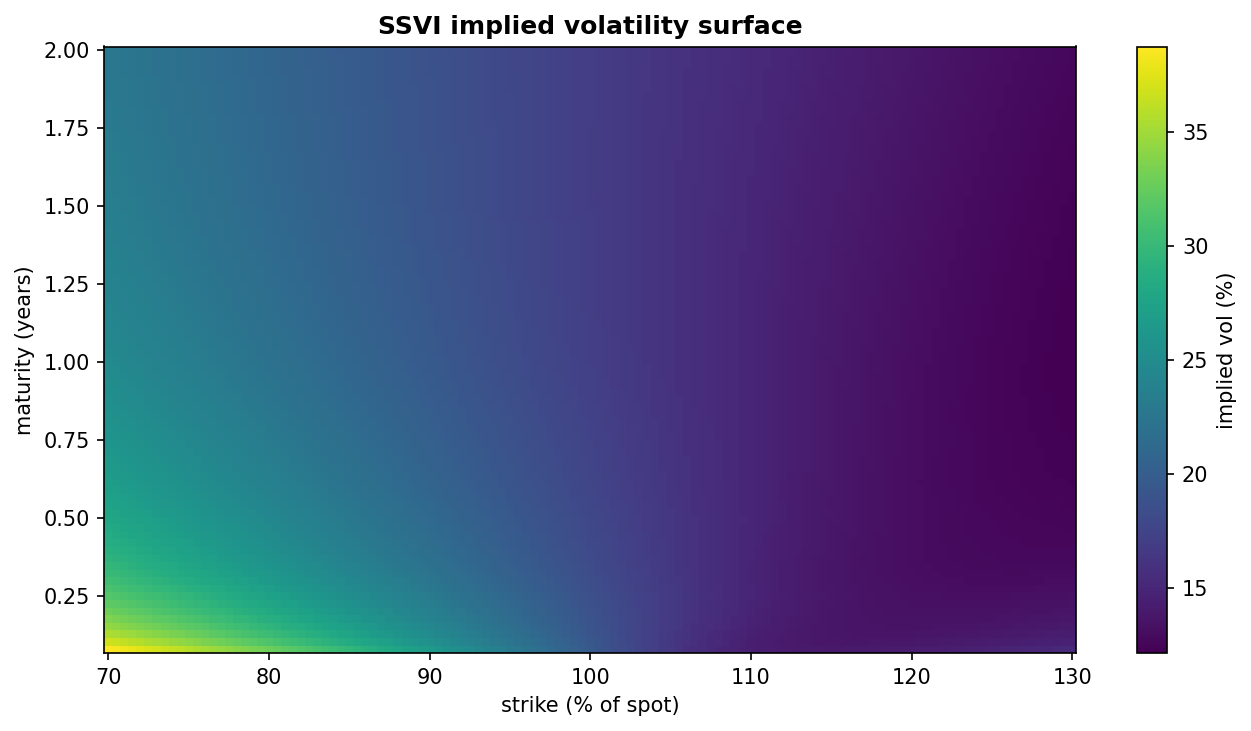
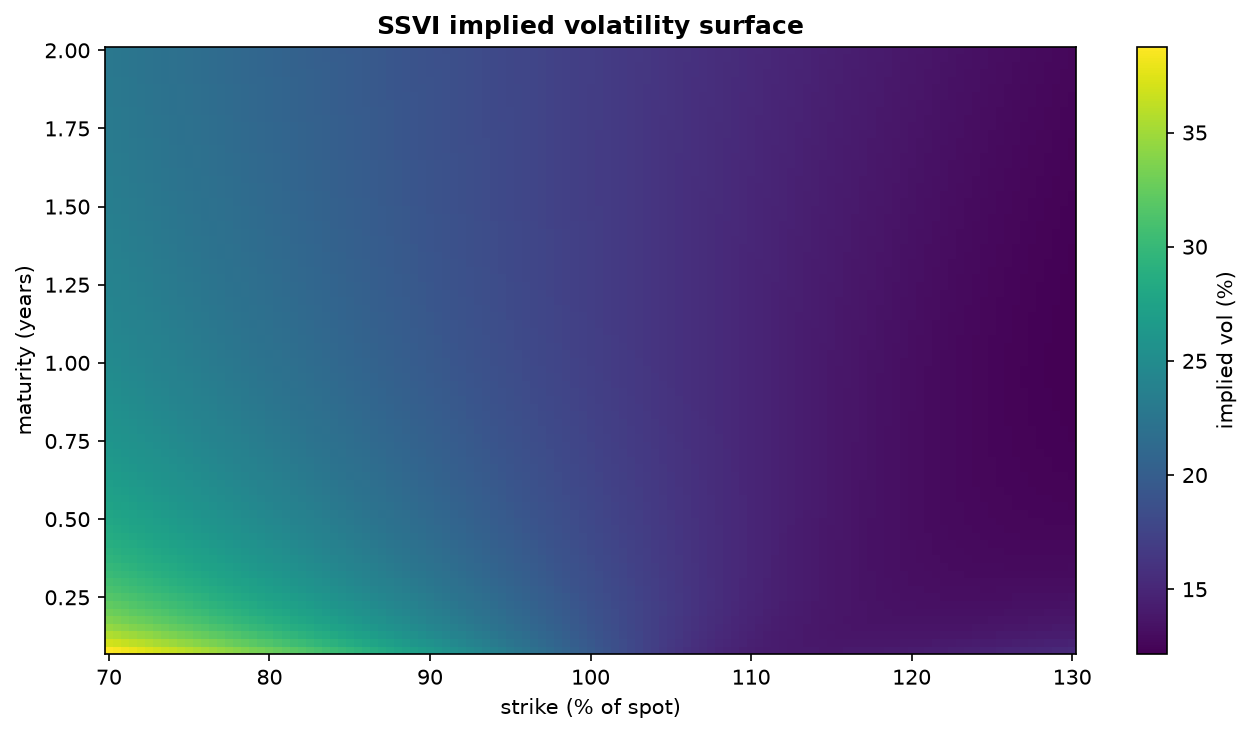
M2: interpolate SSVI theta(T) with a monotone cubic (PCHIP)
Piecewise-linear theta(T) made dtheta/dT, and so Dupire's dw/dT, jump at
every expiry: local vol stepped by ~6% across T = 0.5 on the test surface,
visible as horizontal bands in docs/local_vol.png. PCHIP keeps theta
non-decreasing (still calendar-arbitrage-free with gamma <= 1/2) and C1, so
the bands are gone. Theta at the expiries is unchanged, so fitted parameters
and the README validation numbers are identical.

diff --git a/src/volsurface/surface.py b/src/volsurface/surface.py
@@ -5,6 +5,7 @@ from __future__ import annotations
 from abc import ABC, abstractmethod
 
 import numpy as np
+from scipy.interpolate import PchipInterpolator
 
 from volsurface.ssvi import SSVIParams
 from volsurface.svi import SVIParams
@@ -111,16 +112,28 @@ class SVISliceSurface(VolSurface):
 
 
 class SSVISurface(VolSurface):
-    """SSVI surface with ATM total variance theta(T) linear between expiries."""
+    """SSVI surface with ATM total variance theta(T) a monotone cubic (PCHIP) in T.
+
+    PCHIP keeps theta non-decreasing, so the surface stays free of calendar
+    arbitrage, and makes it continuously differentiable, so dw/dT and the
+    Dupire local vol have no jumps at the expiries. Beyond the last expiry
+    theta continues along its end tangent.
+    """
 
     def __init__(self, curve: ForwardCurve, params: SSVIParams, expiries, thetas):
         super().__init__(curve)
         self.params = params
-        self._t = np.concatenate([[0.0], np.asarray(expiries, dtype=float)])
-        self._theta = np.concatenate([[0.0], np.maximum.accumulate(np.asarray(thetas, dtype=float))])
+        t = np.concatenate([[0.0], np.asarray(expiries, dtype=float)])
+        theta = np.concatenate([[0.0], np.maximum.accumulate(np.asarray(thetas, dtype=float))])
+        self._pchip = PchipInterpolator(t, theta, extrapolate=False)
+        self._t_end, self._theta_end = t[-1], theta[-1]
+        self._slope_end = float(self._pchip.derivative()(t[-1]))
 
     def theta(self, T):
-        return np.maximum(_interp_extrap(T, self._t, self._theta), 1e-12)
+        T = np.asarray(T, dtype=float)
+        inside = self._pchip(np.clip(T, 0.0, self._t_end))
+        after = self._theta_end + self._slope_end * (T - self._t_end)
+        return np.maximum(np.where(T > self._t_end, after, inside), 1e-12)
 
     def total_variance(self, k, T):
         k, T = np.broadcast_arrays(np.asarray(k, dtype=float), np.asarray(T, dtype=float))

diff --git a/tests/test_surface.py b/tests/test_surface.py
@@ -2,9 +2,10 @@ import numpy as np
 import pytest
 
 from volsurface import (
-    FlatVolSurface, ForwardCurve, SVIParams, SVISliceSurface, check_surface, fit_errors,
-    fit_surface, synthetic_chain,
+    FlatVolSurface, ForwardCurve, SSVIParams, SSVISurface, SVIParams, SVISliceSurface, check_surface,
+    fit_errors, fit_surface, synthetic_chain,
 )
+from volsurface.synthetic import default_atm_vol
 
 CURVE = ForwardCurve(100.0, [0.5, 1.0, 2.0], [101.0, 102.0, 104.0], [0.98, 0.96, 0.92])
 
@@ -20,6 +21,17 @@ def test_flat_surface_local_vol_equals_implied_vol():
     K, T = np.meshgrid(np.linspace(70, 140, 15), np.linspace(0.2, 1.8, 9))
     np.testing.assert_allclose(surf.implied_vol(K, T), 0.2, atol=1e-12)
     np.testing.assert_allclose(surf.local_vol(K, T), 0.2, atol=1e-5)
+
+
+def test_ssvi_theta_monotone_and_local_vol_continuous_across_expiries():
+    expiries = np.array([0.25, 0.5, 1.0, 2.0])
+    thetas = default_atm_vol(expiries) ** 2 * expiries
+    surf = SSVISurface(CURVE, SSVIParams(-0.7, 1.0, 0.4), expiries, thetas)
+    np.testing.assert_allclose(surf.theta(expiries), thetas, rtol=1e-12)
+    assert np.all(np.diff(surf.theta(np.linspace(0.0, 3.0, 601))) >= 0)
+    K = np.array([90.0, 100.0, 110.0])
+    for T in expiries[1:-1]:  # piecewise-linear theta jumps here (the local-vol bands)
+        np.testing.assert_allclose(surf.local_vol(K, T - 1e-3), surf.local_vol(K, T + 1e-3), rtol=5e-3)
 
 
 def test_crossed_slices_flag_calendar_arbitrage():

diff --git a/docs/ARCHITECTURE.md b/docs/ARCHITECTURE.md
@@ -80,8 +80,11 @@ A change that breaks one of these is a bug, even if the tests still pass.
 1. **Forwards come from the market.** No stage assumes a rate or dividend yield. F and DF
    per expiry come from put-call parity only.
 2. **OTM quotes only** enter the IV table: calls with K ≥ F, puts with K < F.
-3. **θ(T) is non-decreasing.** Enforced twice, in `fit_surface` and in `SSVISurface.__init__`.
-   This is what rules out calendar arbitrage in SSVI.
+3. **θ(T) is non-decreasing and C¹.** The node values are made monotone in `fit_surface` and
+   again in `SSVISurface.__init__`. Between nodes, the monotone PCHIP interpolation keeps θ(T)
+   non-decreasing, which rules out calendar arbitrage in SSVI, and continuously
+   differentiable, which removes local-vol jumps at the expiries. Any replacement
+   interpolator must keep both properties.
 4. **SSVI candidates are always admissible.** η = s·2/(1+|ρ|), s ∈ (0,1], γ ∈ (0, ½].
    Don't replace this reparameterisation with a penalty.
 5. **SVI slices are only penalised, not guaranteed.** Their arbitrage status must be
@@ -95,7 +98,7 @@ A change that breaks one of these is a bug, even if the tests still pass.
 
 | Roadmap item | Where it lands |
 |---|---|
-| M2 smooth θ(T) | `SSVISurface.theta` (and the `thetas` built in `fit_surface`). Must stay monotone (invariant 3) |
+| M2 smooth θ(T) | **Done:** PCHIP in `SSVISurface.theta` |
 | M3 real-data study | A new `examples/` script over `data/*.csv`. No library change needed |
 | M4 eSSVI ρ(θ) | New params class in `ssvi.py` (or `essvi.py`) plus a new `VolSurface` subclass |
 | M5 local-vol MC | Consumes `VolSurface.local_vol`. Lives in the pricer repo, not here |

diff --git a/README.md b/README.md
@@ -50,8 +50,10 @@ negative variance and violations of Roger Lee's wing bound b(1 + |ρ|) ≤ 2.
 
 **SSVI surface** (Gatheral & Jacquier 2014) with power-law curvature
 φ(θ) = η / (θ^γ (1 + θ)^(1−γ)). The ATM total-variance term structure θ(T) is taken from the
-SVI slices and forced to be non-decreasing. η is reparameterised as η = s·2/(1 + |ρ|),
-s ∈ (0, 1], so every candidate satisfies the no-arbitrage bound η(1 + |ρ|) ≤ 2, γ ≤ ½.
+SVI slices, forced to be non-decreasing, and interpolated in T with a monotone cubic (PCHIP),
+so it is continuously differentiable and the local vol has no jumps at the expiries.
+η is reparameterised as η = s·2/(1 + |ρ|), s ∈ (0, 1], so every candidate satisfies the
+no-arbitrage bound η(1 + |ρ|) ≤ 2, γ ≤ ½.
 The fitted surface is free of static arbitrage by construction.
 
 **Arbitrage diagnostics.** Butterfly arbitrage via Gatheral's density function g(k) ≥ 0 on
@@ -86,7 +88,7 @@ equalling implied vol on a flat surface.
 ## Roadmap
 
 - [x] **M1 Pipeline:** cleaning, parity forwards, implied vols, SVI, SSVI, arbitrage checks, Dupire local vol
-- [ ] **M2 Smooth term structure:** replace piecewise-linear θ(T) with a monotone spline, removing
+- [x] **M2 Smooth term structure:** replace piecewise-linear θ(T) with a monotone spline, removing
       the horizontal bands in the local vol at each expiry
 - [ ] **M3 Real-data study:** daily ^SPX snapshots; track how ρ, η, and ATM term structure move
       with the market; compare SVI and SSVI fit quality on real spreads
